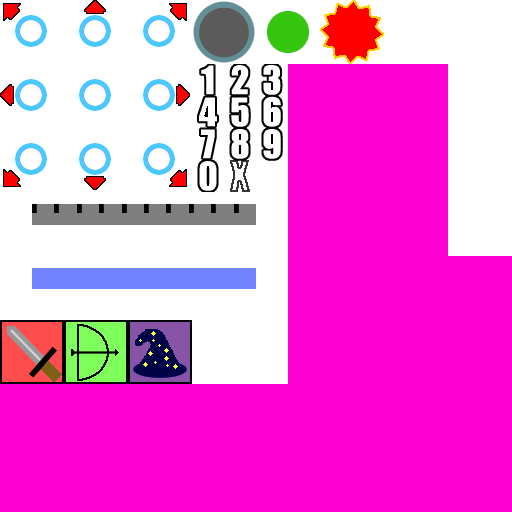
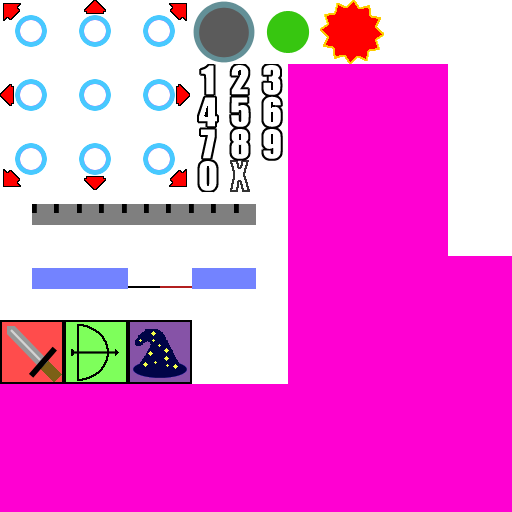
Rudimentary Health bars in place

Changed region(s): [[0.25, 0.5, 0.375, 0.5625]]

diff --git a/ScrumGame/src/view/Drawer.java b/ScrumGame/src/view/Drawer.java
@@ -84,8 +84,16 @@ public class Drawer {
 	public void drawEntities(float deltaTime) {
 		for(Entity entity : MainGame.getEntityManager( ).getEntities( )) {			
 			Vector2 monsterPos = entity.getPosition().cpy().mul(TILE_SIZE).sub(lowerLeftOfView);
-			if(isOnScreen(monsterPos))
+			if(isOnScreen(monsterPos)){
+				
+				Sprite Empty = MainGame.getTextureRepo().getUiElement(UiElement.Health).getStepInRow(0,0);
+				Sprite health = MainGame.getTextureRepo().getUiElement(UiElement.Health).getStepInRow(1,0);
+				health.setScale(entity.getHitpoints()/100 , 1);
+				
+				drawAtLocation(Empty, monsterPos.x, monsterPos.y+TILE_SIZE);
+				drawAtLocation(health, monsterPos.x, monsterPos.y+TILE_SIZE);
 				drawAtLocation(entity.getSprite(), monsterPos.x, monsterPos.y);
+			}
 		}
 	}
 	private boolean isOnScreen(Vector2 monsterPos) {
@@ -181,7 +189,7 @@ public class Drawer {
 		bigFont.draw(batch, ((Villagers < 10 ) ? "0": "") +Integer.toString(Villagers), DrawLoc.x, DrawLoc.y);
 		
 		font.setColor(Color.BLACK);
-		font.draw(batch, str + "Time: "+deltaTime, 192/Scale,25);
+		font.draw(batch, str + "Mana: "+GlobalGameData.getPlayer().getMana(), 192/Scale,25);
 		
 		//font.scale((float)-2.3);
 	}

diff --git a/ScrumGame/src/view/TextureRepository.java b/ScrumGame/src/view/TextureRepository.java
@@ -41,9 +41,10 @@ public class TextureRepository {
 	private void addUi() {
 		addToUiMap(UiElement.MoveCenter, "art/UiElements.png", new Vector2(0,0), new Vector2(3,3), 64, 64);//cursor
 		addToUiMap(UiElement.Numbers, "art/UiElements.png", new Vector2(6,2), new Vector2(6,6), 32, 32);
-		addToUiMap(UiElement.ManaBar, "art/UiElements.png", new Vector2(0,3), new Vector2(4,3), 64, 64);
+		addToUiMap(UiElement.ManaBar, "art/UiElements.png", new Vector2(0,3), new Vector2(2,3), 64, 64);
 		addToUiMap(UiElement.Circles, "art/UiElements.png", new Vector2(3,0), new Vector2(3,4), 64, 64);//in order: base, OK status, critical status
 		addToUiMap(UiElement.Buttons, "art/UiElements.png", new Vector2(0,5), new Vector2( 4, 4), 64, 64);
+		addToUiMap(UiElement.Health, "art/UiElements.png", new Vector2(4,8), new Vector2(5,8), 32, 32);
 	}
 
 	private void addToTileMap(TileType type, String fileName) {

diff --git a/ScrumGame/src/view/UiElement.java b/ScrumGame/src/view/UiElement.java
@@ -5,5 +5,6 @@ public enum UiElement {
 	Numbers,
 	ManaBar,
 	Circles,
-	Buttons
+	Buttons,
+	Health
 }
